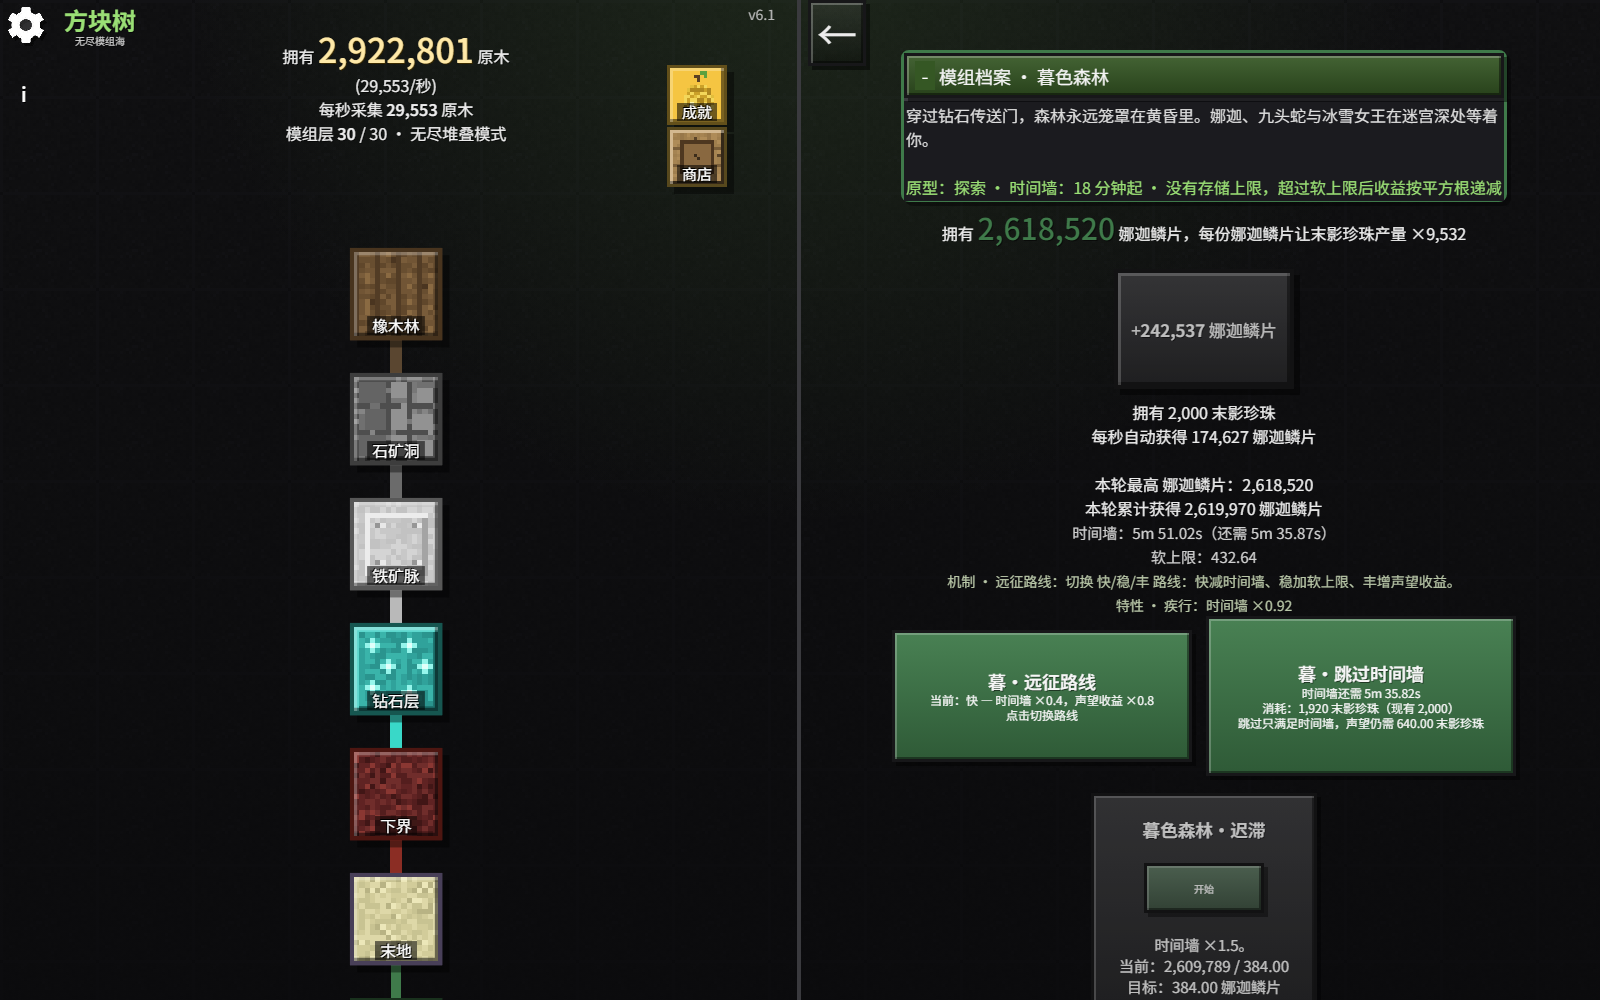
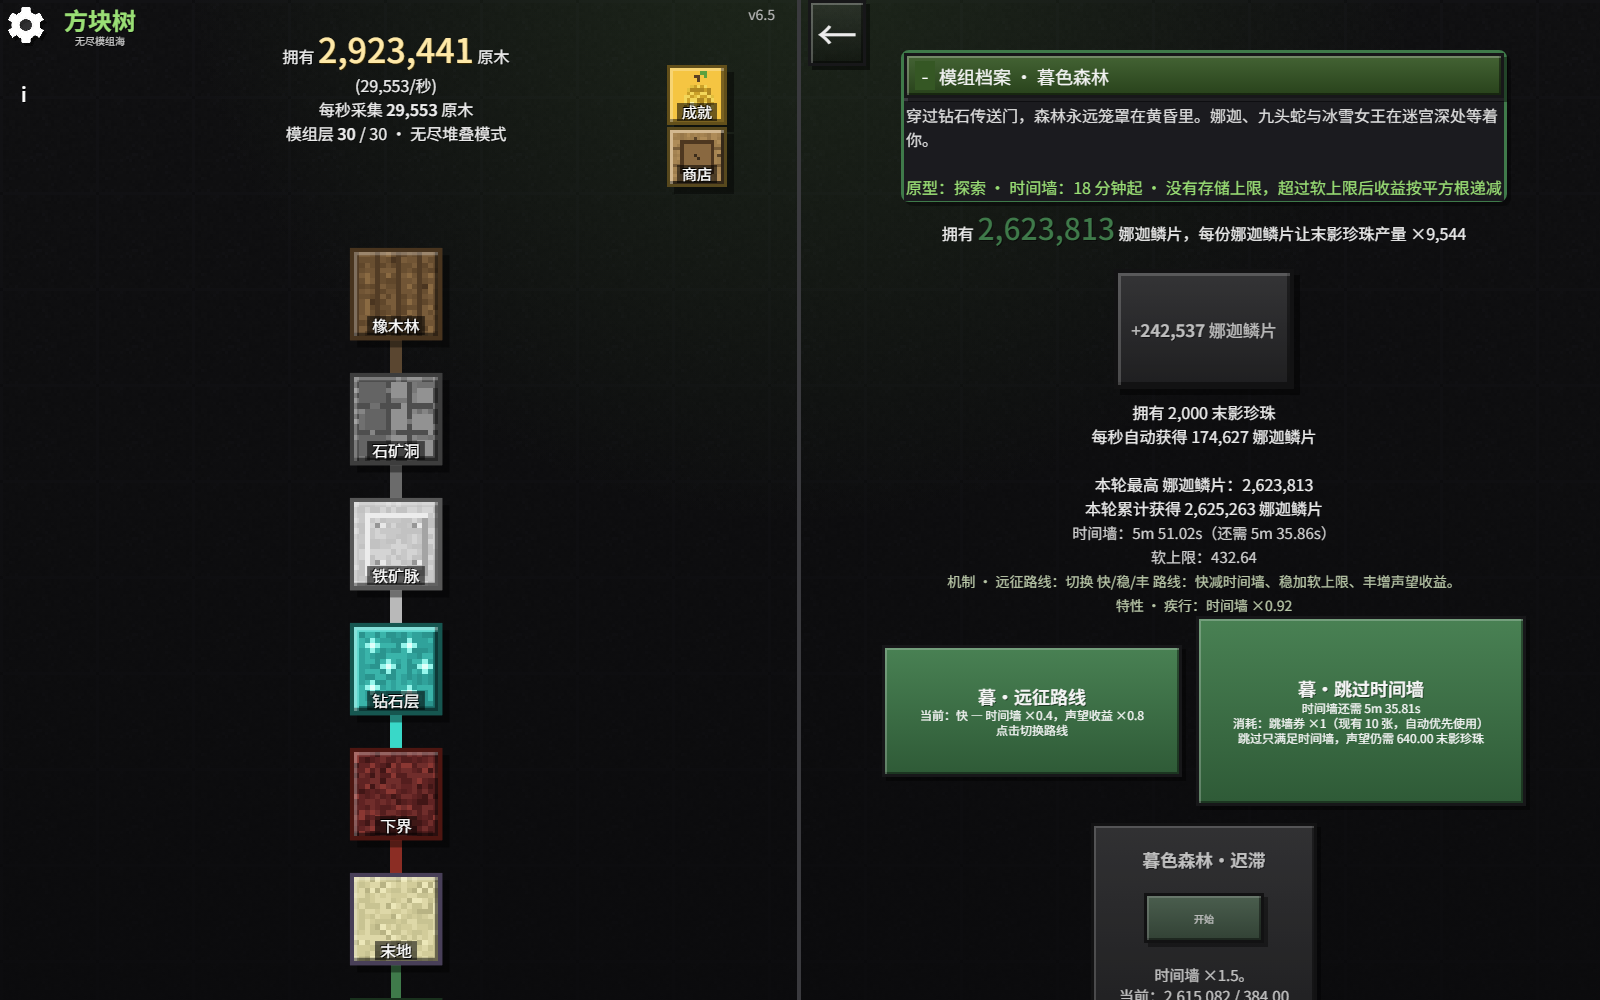
新增成就跳墙券，修复跳墙文案与交互边界，版本升至 v6.5

diff --git a/index.html b/index.html
@@ -7,40 +7,40 @@
 	<title>方块树：无尽模组海 · Minecraft 放置游戏</title>
 	<link rel="icon" type="image/png" href="img/favicon.png">
 
-	<link rel="stylesheet" type="text/css" href="css/system-style.css?v=6.1" />
-	<link rel="stylesheet" type="text/css" href="css/bars.css?v=6.1" />
-	<link rel="stylesheet" type="text/css" href="css/components.css?v=6.1" />
-	<link rel="stylesheet" type="text/css" href="css/general-style.css?v=6.1" />
-	<link rel="stylesheet" type="text/css" href="css/misc.css?v=6.1" />
-	<link rel="stylesheet" type="text/css" href="css/other-tabs.css?v=6.1" />
-	<link rel="stylesheet" type="text/css" href="css/popup.css?v=6.1" />
-	<link rel="stylesheet" type="text/css" href="css/tree-node.css?v=6.1" />
-	<link rel="stylesheet" type="text/css" href="css/minecraft.css?v=6.1" />
+	<link rel="stylesheet" type="text/css" href="css/system-style.css?v=6.5" />
+	<link rel="stylesheet" type="text/css" href="css/bars.css?v=6.5" />
+	<link rel="stylesheet" type="text/css" href="css/components.css?v=6.5" />
+	<link rel="stylesheet" type="text/css" href="css/general-style.css?v=6.5" />
+	<link rel="stylesheet" type="text/css" href="css/misc.css?v=6.5" />
+	<link rel="stylesheet" type="text/css" href="css/other-tabs.css?v=6.5" />
+	<link rel="stylesheet" type="text/css" href="css/popup.css?v=6.5" />
+	<link rel="stylesheet" type="text/css" href="css/tree-node.css?v=6.5" />
+	<link rel="stylesheet" type="text/css" href="css/minecraft.css?v=6.5" />
 
 	<link href="https://fonts.googleapis.com/css?family=Inconsolata" rel="stylesheet">
 
 	<script src="https://unpkg.com/vue@2.7.16/dist/vue.min.js"></script>
-	<script src="js/technical/break_eternity.js?v=6.1"></script>
-	<script src="js/technical/layerSupport.js?v=6.1"></script>
+	<script src="js/technical/break_eternity.js?v=6.5"></script>
+	<script src="js/technical/layerSupport.js?v=6.5"></script>
 
-	<script src="js/mod.js?v=6.1"></script>
-	<script src="js/technical/loader.js?v=6.1"></script>
+	<script src="js/mod.js?v=6.5"></script>
+	<script src="js/technical/loader.js?v=6.5"></script>
 
-	<script src="js/technical/temp.js?v=6.1"></script>
-	<script src="js/technical/displays.js?v=6.1"></script>
+	<script src="js/technical/temp.js?v=6.5"></script>
+	<script src="js/technical/displays.js?v=6.5"></script>
 	
-	<script src="js/game.js?v=6.1"></script>
-	<script src="js/utils.js?v=6.1"></script>
-	<script src="js/utils/easyAccess.js?v=6.1"></script>
-	<script src="js/technical/systemComponents.js?v=6.1"></script>
-	<script src="js/components.js?v=6.1"></script>
-	<script src="js/technical/canvas.js?v=6.1"></script>
-	<script src="js/technical/particleSystem.js?v=6.1"></script>
-	<script src="js/utils/NumberFormating.js?v=6.1"></script>
-	<script src="js/utils/options.js?v=6.1"></script>
-	<script src="js/utils/save.js?v=6.1"></script>
-	<script src="js/utils/themes.js?v=6.1"></script>
-	<script src="js/easter-egg.js?v=6.1"></script>
+	<script src="js/game.js?v=6.5"></script>
+	<script src="js/utils.js?v=6.5"></script>
+	<script src="js/utils/easyAccess.js?v=6.5"></script>
+	<script src="js/technical/systemComponents.js?v=6.5"></script>
+	<script src="js/components.js?v=6.5"></script>
+	<script src="js/technical/canvas.js?v=6.5"></script>
+	<script src="js/technical/particleSystem.js?v=6.5"></script>
+	<script src="js/utils/NumberFormating.js?v=6.5"></script>
+	<script src="js/utils/options.js?v=6.5"></script>
+	<script src="js/utils/save.js?v=6.5"></script>
+	<script src="js/utils/themes.js?v=6.5"></script>
+	<script src="js/easter-egg.js?v=6.5"></script>
 
 </head>
 

diff --git a/js/layers/modpack.js b/js/layers/modpack.js
@@ -248,7 +248,7 @@ function mpTimeWall(cfg) {
 	return wall * (1 - reduction)
 }
 
-// 首通时间墙可以消耗上一层资源直接跳过，价格为 3 倍声望需求
+// 首通时间墙优先用跳墙券跳过；没有券时消耗上一层资源，价格为 3 倍声望需求
 function mpWallSkipCost(cfg) {
 	return new Decimal(cfg.req).times(3)
 }
@@ -625,7 +625,7 @@ function addModLayer(cfg) {
 		}
 	}
 
-	// 首通时间墙可用资源跳过，首通后消失
+	// 首通时间墙可用跳墙券或资源跳过，首通后消失
 	clickableData[12] = {
 		title: cfg.short + "·跳过时间墙",
 		display() {
@@ -634,27 +634,47 @@ function addModLayer(cfg) {
 			let cost = mpWallSkipCost(cfg)
 			let prevRes = layers[cfg.prev] ? layers[cfg.prev].resource : cfg.prev
 			if (remain <= 0) return "时间墙已满足<br>声望仍需 " + format(dReq(cfg.requires)) + " " + prevRes
-			return "时间墙还需 " + formatTime(remain) +
-				"<br>消耗：" + format(cost) + " " + prevRes +
-				"（现有 " + format(player[cfg.prev].points) + "）" +
-				"<br>跳过只满足时间墙，声望仍需 " + format(dReq(cfg.requires)) + " " + prevRes
+			let lines = ["时间墙还需 " + formatTime(remain)]
+			let left = wallSkipLeft()
+			if (left > 0) {
+				lines.push("消耗：跳墙券 ×1（现有 " + left + " 张，自动优先使用）")
+			}
+			else {
+				let earned = wallSkipEarned()
+				lines.push(earned > 0 ?
+					"跳墙券已用完（已获得 " + earned + " 张）" :
+					"暂无跳墙券（每完成 5 个成就 +1 张）")
+				lines.push("消耗：" + format(cost) + " " + prevRes + "（现有 " + format(player[cfg.prev].points) + "）")
+			}
+			lines.push("跳过只满足时间墙，声望仍需 " + format(dReq(cfg.requires)) + " " + prevRes)
+			return lines.join("<br>")
 		},
 		unlocked() { return !player[id].prestiged },
 		canClick() {
 			return !player[id].prestiged &&
 				player[id].resetTime < mpTimeWall(cfg) &&
-				player[cfg.prev].points.gte(mpWallSkipCost(cfg))
+				(wallSkipLeft() > 0 || player[cfg.prev].points.gte(mpWallSkipCost(cfg)))
 		},
 		onClick() {
 			if (player[id].prestiged) return
-			let cost = mpWallSkipCost(cfg)
-			if (player[cfg.prev].points.lt(cost)) return
-			player[cfg.prev].points = player[cfg.prev].points.sub(cost)
+			if (player[id].resetTime >= mpTimeWall(cfg)) return
+			let need = dReq(cfg.requires)
+			let prevRes = layers[cfg.prev] ? layers[cfg.prev].resource : cfg.prev
+			if (player[cfg.prev].points.lt(need) &&
+				!confirm("跳过只满足时间墙，声望仍需 " + format(need) + " " + prevRes + "；进入挑战会重新计时。确定跳过？")) return
+			if (wallSkipLeft() > 0) {
+				player.a.wallSkipUsed = (player.a.wallSkipUsed || 0) + 1
+			}
+			else {
+				let cost = mpWallSkipCost(cfg)
+				if (player[cfg.prev].points.lt(cost)) return
+				player[cfg.prev].points = player[cfg.prev].points.sub(cost)
+			}
 			player[id].resetTime = mpTimeWall(cfg)
 			updateTemp()
 			needCanvasUpdate = true
 		},
-		style: { "height": "160px", "width": "310px" },
+		style: { "min-height": "190px", "height": "auto", "width": "330px" },
 	}
 
 	const mechText = function() {

diff --git a/js/technical/systemComponents.js b/js/technical/systemComponents.js
@@ -153,8 +153,9 @@ var systemComponents = {
             <summary style="cursor: pointer; color: #f5c542; font-size: 16px; text-align: left;">时间墙 / 软上限</summary>
             <div style="margin: 6px 0 10px 18px; text-align: left;">
                 模组层需要等满时间墙才能声望；升级与设施会缩短时间墙，原版六层没有时间墙。<br>
-                每层首通后不再计时；首通前可以花上一层 3 倍需求的资源直接跳过时间墙。<br>
-                跳过只满足时间墙，声望仍要求上一层资源达到需求，因此实际需准备约 4 倍。<br>
+                每层首通后不再计时；首通前优先用跳墙券免费跳过，没有券时再花上一层 3 倍需求的资源。<br>
+                跳墙券是成就奖励：每完成 5 个成就 +1 张，最多 10 张；有券时自动优先消耗，不再扣上一层资源。<br>
+                跳过只满足时间墙，声望仍要求上一层资源达到需求，因此用资源跳过时实际需准备约 4 倍。<br>
                 单次声望收益超过软上限后按平方根折算；本层资源、历史最高与累计总量没有存储上限。<br>
                 声望会级联重置：重置高层会清空所有低层的点数、升级、设施与里程碑，挑战完成记录与首通标记永久保留。
             </div>

diff --git a/js/layers/achievements.js b/js/layers/achievements.js
@@ -38,6 +38,20 @@ const MOD_ACH = [
 
 const ACH_TOTAL = 22 + MOD_ACH.length
 
+// 跳墙券：每完成 5 个成就获得 1 张，最多 10 张，用于免费跳过首通时间墙
+const WALL_SKIP_PER_ACH = 5
+const WALL_SKIP_MAX = 10
+
+function wallSkipEarned() {
+	if (!player.a || !player.a.achievements) return 0
+	return Math.min(WALL_SKIP_MAX, Math.floor(player.a.achievements.length / WALL_SKIP_PER_ACH))
+}
+
+function wallSkipLeft() {
+	if (!player.a) return 0
+	return Math.max(0, wallSkipEarned() - (player.a.wallSkipUsed || 0))
+}
+
 addLayer("a", {
 	name: "成就",
 	symbol: "成就",
@@ -48,6 +62,7 @@ addLayer("a", {
 	startData() { return {
 		unlocked: true,
 		points: new Decimal(0),
+		wallSkipUsed: 0,
 	}},
 
 	resource: "成就",
@@ -59,6 +74,9 @@ addLayer("a", {
 		["display-text", "<h1>成就墙</h1>"],
 		["display-text", function() {
 			return "已完成 <b>" + player.a.achievements.length + " / " + ACH_TOTAL + "</b> · 部分成就会永久提升所有产量"
+		}, {"font-size": "16px", "opacity": "0.8"}],
+		["display-text", function() {
+			return "跳墙券：可用 <b>" + wallSkipLeft() + "</b> 张 · 已获得 " + wallSkipEarned() + " / 10 · 每完成 5 个成就 +1，可免费跳过首通时间墙"
 		}, {"font-size": "16px", "opacity": "0.8"}],
 		"blank",
 		"achievements",

diff --git a/js/mod.js b/js/mod.js
@@ -13,11 +13,15 @@ let modInfo = {
 
 // 版本号与副标题
 let VERSION = {
-	num: "6.1",
-	name: "速查与上限",
+	num: "6.5",
+	name: "成就跳墙",
 }
 
 let changelog = `<h1>更新日志</h1><br>
+	<h3>v6.5 — 成就跳墙</h3><br>
+		- 新增成就奖励「跳墙券」：每完成 5 个成就 +1 张，最多 10 张，首通前可免费跳过时间墙。<br>
+		- 有券时自动优先消耗，不再扣上一层资源；没有券时仍可花 3 倍需求的资源跳过。<br>
+		- 跳墙卡片区分「暂无」与「已用完」，并显示券会自动优先使用；声望条件不足时点击需确认，避免误耗后被挑战重置。<br>
 	<h3>v6.1 — 速查与上限</h3><br>
 		- 关于页新增「玩法速查」：起步流程、时间墙 / 软上限、自动化商店规则，可折叠展开。<br>
 		- 时间设施最多 13 级，满级后在卡片标记「已满级」，不再能继续购买。<br>

diff --git a/README.md b/README.md
@@ -10,7 +10,7 @@
 - **每个模组层**：10 个升级、4 座自动化设施 + 主题核心、8 个里程碑、3 个挑战
 - 合计 **300 个模组升级、150 座设施、240 个里程碑、90 个挑战**
 - **5 套原型机制、8 类主题特性、30 个主题签名升级**
-- **52 个成就**，其中 30 个为模组层专属
+- **52 个成就**，其中 30 个为模组层专属；每完成 5 个成就获得 1 张跳墙券（上限 10 张），可免费跳过首通时间墙
 - 侧边 **自动化商店**：用下一层资源购买上一层自动购买权，自动购买升级与购买项（研究分支除外），购买后可随时开关
 - 每个模组层各自拥有时间墙与软上限（原版六层没有）；本层资源本身没有上限，越往后收益递减越明显
 - 声望是级联的：重置高层会连同所有低层一起重置，低层的时间墙、升级、设施与里程碑都会从头开始；挑战完成记录与奖励则永久保留
@@ -60,7 +60,7 @@
 
 ## 时间墙 / 软上限
 
-- **时间墙**：解锁后必须等待一段时间才能进行本层声望；升级与设施可以缩短时间墙，每层首次声望通过后不再计时。首通前也可以花上一层 3 倍需求的资源直接跳过。
+- **时间墙**：解锁后必须等待一段时间才能进行本层声望；升级与设施可以缩短时间墙，每层首次声望通过后不再计时。首通前可以优先用成就奖励的跳墙券（每 5 个成就 1 张，上限 10 张）免费跳过，没有券时再花上一层 3 倍需求的资源。
 - **软上限**：声望收益超过软上限后按平方根折算，防止单次爆发过强。
 - **没有存储上限**：本层资源、`best` 与累计总量都可以无限增长；软上限只压缩单次声望的收益，不封锁继续推进。
 - 各层之间的全局加成改为线性叠加（21 号升级每层 +10%），避免多层倍率相乘导致数值直接爆炸。

diff --git a/docs/gameplay.md b/docs/gameplay.md
@@ -100,7 +100,7 @@
 - 时间墙从十几分钟起步，逐层提高，中后期封顶；探索原型最长 14.4 小时。
 - 「时间设施」每级缩短 4%，最多 13 级、50%；25 号升级再额外缩短 20%。
 - 每层完成第一次声望后即视为已通过，此后该层只检查前置资源，不再等待时间墙。
-- 首通前可以点层页面上的「跳过时间墙」卡片，花上一层 3 倍声望需求的资源直接满足时间墙；由于声望本身还要求上一层资源 ≥ 需求，实际要准备 4 倍。付款会消耗上一层资源，本次声望收益也随之降低。
+- 首通前可以点层页面上的「跳过时间墙」卡片：优先消耗 1 张跳墙券（成就奖励）免费满足时间墙；没有券时回退为花上一层 3 倍声望需求的资源，此时由于声望本身还要求上一层资源 ≥ 需求，实际要准备 4 倍，且付款会消耗上一层资源、降低本次声望收益。声望条件不足时点击会先弹出确认。
 - 未通过前完成声望，本层 `resetTime` 归零，下一次声望需要重新等待。
 - 声望会级联重置：重置高层时，所有低层的点数、升级、设施、里程碑、`best` 与 `resetTime` 都会清空（`unlocked` 与「已通过」标记保留），未通过的层会重新计时。
 
@@ -130,4 +130,4 @@
 - 22 个基础/旧模组成就。
 - 30 个「模组层投产」成就，每层一个。
 
-部分成就提供全局产量加成，详见 [成就系统](achievements.md)。
+部分成就提供全局产量加成；此外每完成 5 个成就获得 1 张跳墙券（最多 10 张），可在首通前免费跳过时间墙。详见 [成就系统](achievements.md)。

diff --git a/docs/balance.md b/docs/balance.md
@@ -1,6 +1,6 @@
 # 数值与平衡
 
-本文记录 v6.1 的关键公式，方便后续调整。所有数值都可以在 `js/mod.js`、`js/layers/modpack.js` 中修改。
+本文记录 v6.5 的关键公式，方便后续调整。所有数值都可以在 `js/mod.js`、`js/layers/modpack.js` 中修改。
 
 ## 全局难度
 
@@ -42,7 +42,7 @@ wall     = baseWall * arch.time
 - 探索路线与 5 号里程碑：快路线减墙效果从 40% 提高到 60%。
 - 迟滞挑战进行中：`wall *= 1.5`。
 - 每层首次声望后记为已通过（`player[层].prestiged`），此后该层不再计时；级联重置会保留这个标记。
-- 首通前可用上一层资源跳过时间墙：价格 3 × `req`（`mpWallSkipCost`），点击「跳过时间墙」后 `resetTime` 直接设为当前时间墙。声望仍要求上一层资源 ≥ `req`，因此实际需要准备 4 × `req`；付款后剩余资源变少，本次声望收益也会相应降低。
+- 首通前可用跳墙券或资源跳过时间墙：跳墙券优先，每 5 个成就 1 张、上限 10 张（`wallSkipEarned` / `wallSkipLeft`）；没有券时改花 3 × `req`（`mpWallSkipCost`）。点击「跳过时间墙」后 `resetTime` 直接设为当前时间墙。声望仍要求上一层资源 ≥ `req`，因此用资源跳过时实际需要准备 4 × `req`；付款后剩余资源变少，本次声望收益也会相应降低。
 
 ## 软上限（收益递减）
 

diff --git a/docs/development.md b/docs/development.md
@@ -117,7 +117,7 @@ python tools/generate_textures.py
 - `mpSoftcap(cfg)`：基础倍率 + 里程碑 + 升级 + 上限设施。
 - `getResetGain()`：手动实现声望公式；收益超过软上限后按平方根折算，不做存储截断。
 - `canReset()`：时间墙 + 前置资源；首次声望后在 `doReset` 置 `prestiged = true`，之后跳过时间墙（`layerDataReset` 的保留列表包含它）。
-- `mpWallSkipCost(cfg)` 与 12 号 clickable：首通前允许花费上一层 3 × `req` 的资源，把 `resetTime` 直接设为时间墙；首通后卡片隐藏。
+- `mpWallSkipCost(cfg)` 与 12 号 clickable：首通前优先消耗 1 张跳墙券（`wallSkipLeft()`），没有券时花费上一层 3 × `req` 的资源，把 `resetTime` 直接设为时间墙；首通后卡片隐藏。
 - 商店自动购买由 `js/game.js` 的 `autobuyUpgrades` / `autobuyBuyables` 执行；购买项可用 `autobuy: false` 排除（科技层 15–17 号研究分支即如此）。
 
 本层 `points` 与 `best` 没有上限，不要重新引入 `update()` 夹值或 `min(gain, cap - points)`。如果要调整节奏，优先改 `mpSoftcap`、`getResetGain` 与 `cfg.requires`，而不是只改 UI 文本。

diff --git a/docs/achievements.md b/docs/achievements.md
@@ -18,7 +18,9 @@
 | 41–50 | 每个 ×1.05 |
 | 51–80 | 每个 ×1.015 |
 
-奖励在 `js/mod.js` 的 `globalProductionMult()` 中汇总：
+**跳墙券**：每完成 5 个成就获得 1 张（最多 10 张），可在首通前免费跳过当前层的时间墙。已用数量记在 `player.a.wallSkipUsed`，`wallSkipEarned()` / `wallSkipLeft()` 位于 `js/layers/achievements.js`。有券时「跳过时间墙」卡片自动优先消耗 1 张、不扣上层资源；没有券时回退为消耗上一层 3 × `req` 资源。声望条件不足时点击会弹出确认，避免误耗券或资源后再被挑战重置。
+
+产量奖励在 `js/mod.js` 的 `globalProductionMult()` 中汇总：
 
 ```js
 for (let i = 41; i <= 50; i++) {

diff --git a/docs/!general-info.md b/docs/!general-info.md
@@ -17,7 +17,7 @@ python -m http.server 8000
 
 ## 当前版本
 
-- 版本：**v6.1「速查与上限」**
+- 版本：**v6.5「成就跳墙」**
 - 科技树：**36 层**（6 原版 + 30 模组）
 - 每个模组层：10 个升级（含主题签名升级）、4 座自动化设施 + 主题核心、8 个里程碑、3 个挑战
 - 5 套原型机制、8 类主题特性，30 层与 30 个主题一一对应
